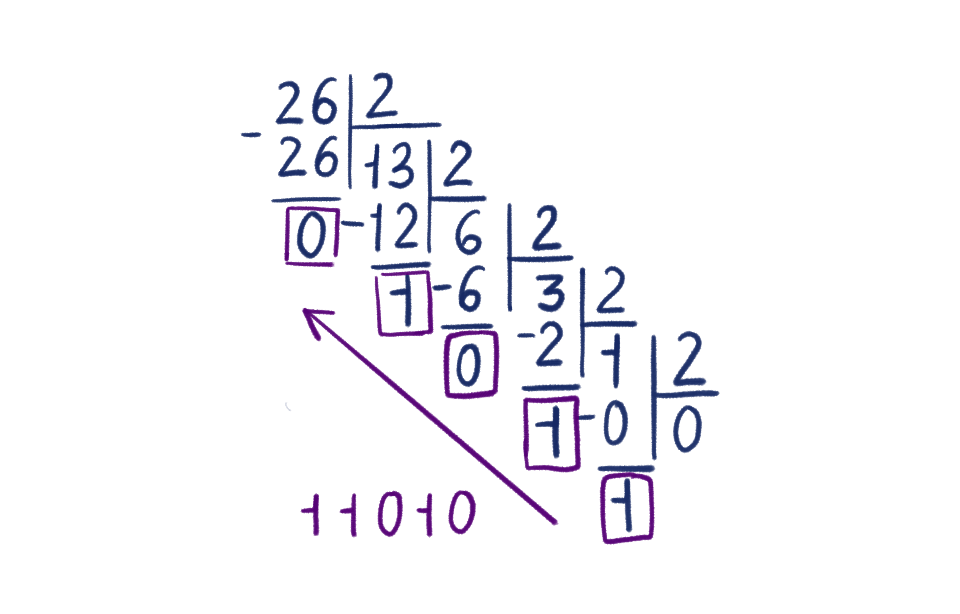
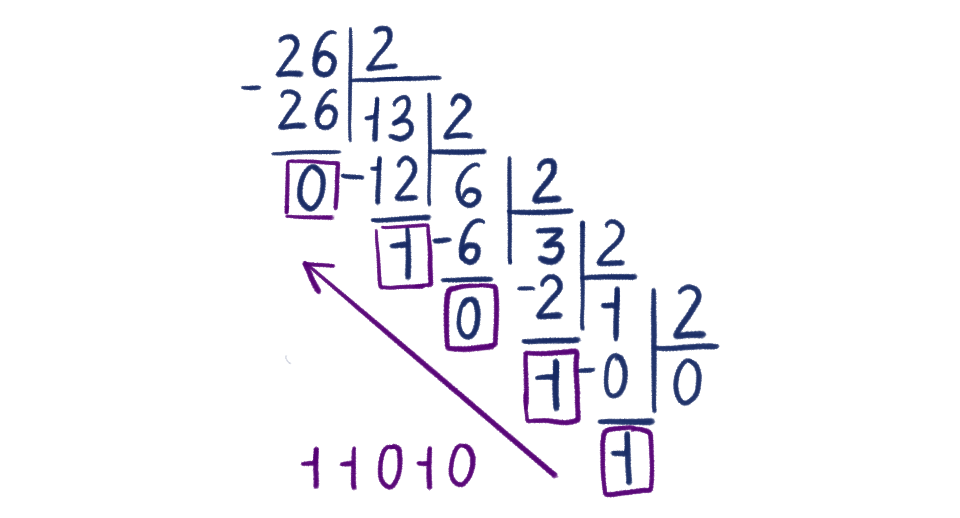
deploy: cb709e85daf9fedc1bf543b376b043204c3958e3

Changed region(s): [[0.25, 0.0309, 0.75, 0.9575], [0.5625, 0.8958, 0.5938, 0.9266]]

diff --git a/amp/numeral-systems.html b/amp/numeral-systems.html
@@ -202,31 +202,31 @@
 
 <p>Чтобы разобраться с тем, как устроена десятичная система, нам потребуется какое-нибудь достаточно большое число.</p>
 
-<p><amp-img src="/assets/images/numeral-systems/example01.png" alt="1072" width="960" height="244" layout="responsive"><noscript><img src="/assets/images/numeral-systems/example01.png" alt="1072" width="960" height="244"></noscript></amp-img></p>
+<p><amp-img src="/assets/images/numeral-systems/example01.png" alt="1072" width="960" height="150" layout="responsive"><noscript><img src="/assets/images/numeral-systems/example01.png" alt="1072" width="960" height="150"></noscript></amp-img></p>
 
 <p>Это четырехзначное число, потому что оно состоит из четырёх цифр. И, поскольку речь идёт о десятичной системе, мы можем использовать десять различных цифр.</p>
 
-<p><amp-img src="/assets/images/numeral-systems/example02.png" alt="0123456789" width="960" height="244" layout="responsive"><noscript><img src="/assets/images/numeral-systems/example02.png" alt="0123456789" width="960" height="244"></noscript></amp-img></p>
+<p><amp-img src="/assets/images/numeral-systems/example02.png" alt="0123456789" width="960" height="150" layout="responsive"><noscript><img src="/assets/images/numeral-systems/example02.png" alt="0123456789" width="960" height="150"></noscript></amp-img></p>
 
 <p>Величина, которая скрывается за каждой цифрой, зависит от её позиции, поэтому такую систему счисления называют также и <em>позиционной</em>. Справа мы записываем самые младшие значения — <em>единицы</em>, слева от них <em>десятки</em>, затем <em>сотни</em>, и так далее. Запись 1702 означает буквально следующее.</p>
 
-<p><amp-img src="/assets/images/numeral-systems/example03.png" alt="1×1000+7×100+0×10+2×1" width="960" height="355" layout="responsive"><noscript><img src="/assets/images/numeral-systems/example03.png" alt="1×1000+7×100+0×10+2×1" width="960" height="355"></noscript></amp-img></p>
+<p><amp-img src="/assets/images/numeral-systems/example03.png" alt="1×1000+7×100+0×10+2×1" width="960" height="248" layout="responsive"><noscript><img src="/assets/images/numeral-systems/example03.png" alt="1×1000+7×100+0×10+2×1" width="960" height="248"></noscript></amp-img></p>
 
 <p>Цифры, записанные в соседних позициях, различаются в десять раз — это и есть десятичная система.
 Однако, как мы говорили ранее, привычная нам десятичная система — далеко не единственная. В то же время, опираясь на неё, нам будет проще понять принципы работы других систем счисления. Например, для записи того же самого числа 1702 в двоичной системе, надо придерживаться тех же правил. Только вместо десяти цифр нам потребуется всего две — 0 и 1. Цифры, записанные в соседних позициях, будут различаться не в десять раз, а в два.</p>
 
-<p><amp-img src="/assets/images/numeral-systems/example04.png" alt="1×1024+1×512+0×256+ +1×128+0×64+1×32+0×16+ +0×8+1×4+1×2+0×1" width="960" height="355" layout="responsive"><noscript><img src="/assets/images/numeral-systems/example04.png" alt="1×1024+1×512+0×256+ +1×128+0×64+1×32+0×16+ +0×8+1×4+1×2+0×1" width="960" height="355"></noscript></amp-img></p>
+<p><amp-img src="/assets/images/numeral-systems/example04.png" alt="1×1024+1×512+0×256+ +1×128+0×64+1×32+0×16+ +0×8+1×4+1×2+0×1" width="960" height="248" layout="responsive"><noscript><img src="/assets/images/numeral-systems/example04.png" alt="1×1024+1×512+0×256+ +1×128+0×64+1×32+0×16+ +0×8+1×4+1×2+0×1" width="960" height="248"></noscript></amp-img></p>
 
 <p>Это очень большое двоичное число. Давайте запишем его в привычной форме:
-<amp-img src="/assets/images/numeral-systems/example05.png" alt="1 1 0 1 0 1 0 0 1 1 0 1024 512 256 128 64 32 16 8 4 2 1" width="960" height="355" layout="responsive"><noscript><img src="/assets/images/numeral-systems/example05.png" alt="1 1 0 1 0 1 0 0 1 1 0 1024 512 256 128 64 32 16 8 4 2 1" width="960" height="355"></noscript></amp-img></p>
+<amp-img src="/assets/images/numeral-systems/example05.png" alt="1 1 0 1 0 1 0 0 1 1 0 1024 512 256 128 64 32 16 8 4 2 1" width="960" height="170" layout="responsive"><noscript><img src="/assets/images/numeral-systems/example05.png" alt="1 1 0 1 0 1 0 0 1 1 0 1024 512 256 128 64 32 16 8 4 2 1" width="960" height="170"></noscript></amp-img></p>
 
 <p>Это число могло бы быть очень большим десятичным числом, потому что состоит из тех же цифр. Чтобы отличать двоичные числа от десятичных, в качестве индекса у них указывают основание системы счисления, то есть 2.</p>
 
-<p><amp-img src="/assets/images/numeral-systems/example06.png" alt="11010100110₂" width="960" height="355" layout="responsive"><noscript><img src="/assets/images/numeral-systems/example06.png" alt="11010100110₂" width="960" height="355"></noscript></amp-img></p>
+<p><amp-img src="/assets/images/numeral-systems/example06.png" alt="11010100110₂" width="960" height="126" layout="responsive"><noscript><img src="/assets/images/numeral-systems/example06.png" alt="11010100110₂" width="960" height="126"></noscript></amp-img></p>
 
 <p>Это особенно важно, когда в одном тексте у нас встречаются одновременно десятичные и двоичные числа.</p>
 
-<p><amp-img src="/assets/images/numeral-systems/example07.png" alt="11010100110₂ = 1702" width="960" height="355" layout="responsive"><noscript><img src="/assets/images/numeral-systems/example07.png" alt="11010100110₂ = 1702" width="960" height="355"></noscript></amp-img></p>
+<p><amp-img src="/assets/images/numeral-systems/example07.png" alt="11010100110₂ = 1702" width="960" height="130" layout="responsive"><noscript><img src="/assets/images/numeral-systems/example07.png" alt="11010100110₂ = 1702" width="960" height="130"></noscript></amp-img></p>
 
 <h2 id="зачем-нужна-двоичная-система">Зачем нужна двоичная система</h2>
 
@@ -252,27 +252,27 @@
 
 <p>Сейчас мы узнаем способ быстро переводить двоичные числа в десятичные. Нам потребуется какое-то двоичное число для примера. Пусть оно будет достаточно большим, чтобы мы не могли вычислить его на пальцах.</p>
 
-<p><amp-img src="/assets/images/numeral-systems/example08.png" alt="11010" width="960" height="355" layout="responsive"><noscript><img src="/assets/images/numeral-systems/example08.png" alt="11010" width="960" height="355"></noscript></amp-img></p>
+<p><amp-img src="/assets/images/numeral-systems/example08.png" alt="11010" width="960" height="130" layout="responsive"><noscript><img src="/assets/images/numeral-systems/example08.png" alt="11010" width="960" height="130"></noscript></amp-img></p>
 
 <p>Запишем его в математической записи, помня, что вместо основания 10, мы используем основание 2.</p>
 
-<p><amp-img src="/assets/images/numeral-systems/example09.png" alt="1×16+1×8+0×4+1×2+0×1" width="960" height="355" layout="responsive"><noscript><img src="/assets/images/numeral-systems/example09.png" alt="1×16+1×8+0×4+1×2+0×1" width="960" height="355"></noscript></amp-img></p>
+<p><amp-img src="/assets/images/numeral-systems/example09.png" alt="1×16+1×8+0×4+1×2+0×1" width="960" height="130" layout="responsive"><noscript><img src="/assets/images/numeral-systems/example09.png" alt="1×16+1×8+0×4+1×2+0×1" width="960" height="130"></noscript></amp-img></p>
 
 <p>Мы видим, что у всех слагаемых только два множителя — 0 и 1. Слагаемые с множителем 0 равны нулю, поэтому мы можем их отбросить, оставив только слагаемые с множителем 1.</p>
 
-<p><amp-img src="/assets/images/numeral-systems/example10.png" alt="1×16+1×8+1×2" width="960" height="355" layout="responsive"><noscript><img src="/assets/images/numeral-systems/example10.png" alt="1×16+1×8+1×2" width="960" height="355"></noscript></amp-img></p>
+<p><amp-img src="/assets/images/numeral-systems/example10.png" alt="1×16+1×8+1×2" width="960" height="130" layout="responsive"><noscript><img src="/assets/images/numeral-systems/example10.png" alt="1×16+1×8+1×2" width="960" height="130"></noscript></amp-img></p>
 
 <p>У слагаемых с множителем 1 этот множитель можно не записывать.</p>
 
-<p><amp-img src="/assets/images/numeral-systems/example11.png" alt="16+8+2" width="960" height="355" layout="responsive"><noscript><img src="/assets/images/numeral-systems/example11.png" alt="16+8+2" width="960" height="355"></noscript></amp-img></p>
+<p><amp-img src="/assets/images/numeral-systems/example11.png" alt="16+8+2" width="960" height="130" layout="responsive"><noscript><img src="/assets/images/numeral-systems/example11.png" alt="16+8+2" width="960" height="130"></noscript></amp-img></p>
 
 <p>Теперь нетрудно посчитать сумму.</p>
 
-<p><amp-img src="/assets/images/numeral-systems/example12.png" alt="26" width="960" height="355" layout="responsive"><noscript><img src="/assets/images/numeral-systems/example12.png" alt="26" width="960" height="355"></noscript></amp-img></p>
+<p><amp-img src="/assets/images/numeral-systems/example12.png" alt="26" width="960" height="130" layout="responsive"><noscript><img src="/assets/images/numeral-systems/example12.png" alt="26" width="960" height="130"></noscript></amp-img></p>
 
 <p>Вывод: число 11010 в двоичной записи — то же самое, что 26 в десятичной.</p>
 
-<p><amp-img src="/assets/images/numeral-systems/example13.png" alt="11010₂=26" width="960" height="355" layout="responsive"><noscript><img src="/assets/images/numeral-systems/example13.png" alt="11010₂=26" width="960" height="355"></noscript></amp-img></p>
+<p><amp-img src="/assets/images/numeral-systems/example13.png" alt="11010₂=26" width="960" height="130" layout="responsive"><noscript><img src="/assets/images/numeral-systems/example13.png" alt="11010₂=26" width="960" height="130"></noscript></amp-img></p>
 
 <p>Ещё раз повторим, как перевести двоичное число в десятичное.</p>
 
@@ -396,7 +396,7 @@
 
 <p>Пользуясь такой таблицей, можно переводить числа из двоичной системы в десятичную практически «в уме».</p>
 
-<p><amp-img src="/assets/images/numeral-systems/example14.png" alt="11010₂=10000₂+1000₂+10₂=16+8+2=26" width="960" height="614" layout="responsive"><noscript><img src="/assets/images/numeral-systems/example14.png" alt="11010₂=10000₂+1000₂+10₂=16+8+2=26" width="960" height="614"></noscript></amp-img></p>
+<p><amp-img src="/assets/images/numeral-systems/example14.png" alt="11010₂=10000₂+1000₂+10₂=16+8+2=26" width="960" height="482" layout="responsive"><noscript><img src="/assets/images/numeral-systems/example14.png" alt="11010₂=10000₂+1000₂+10₂=16+8+2=26" width="960" height="482"></noscript></amp-img></p>
 
 <h2 id="как-переводить-десятичные-числа-в-двоичные">Как переводить десятичные числа в двоичные</h2>
 
@@ -472,7 +472,7 @@
 
 <p>Попробуем перевести десятичное число 26 в двоичную систему. Для этого используем деление уголком на число 2.</p>
 
-<p><amp-img src="/assets/images/numeral-systems/example24.png" alt="Перевод десятичного числа в двоичное" width="960" height="614" layout="responsive"><noscript><img src="/assets/images/numeral-systems/example24.png" alt="Перевод десятичного числа в двоичное" width="960" height="614"></noscript></amp-img></p>
+<p><amp-img src="/assets/images/numeral-systems/example24.png" alt="Перевод десятичного числа в двоичное" width="960" height="518" layout="responsive"><noscript><img src="/assets/images/numeral-systems/example24.png" alt="Перевод десятичного числа в двоичное" width="960" height="518"></noscript></amp-img></p>
 
 <p>Если 26 разделить на 2, то в результате получится 13, остаток от деления 0. Продолжаем дальше:</p>
 <ul>
@@ -484,14 +484,14 @@
 
 <p>Из остатков 1, 1, 0, 1 и 0 складывается нужная нам двоичная запись.</p>
 
-<p><amp-img src="/assets/images/numeral-systems/example08.png" alt="11010" width="960" height="355" layout="responsive"><noscript><img src="/assets/images/numeral-systems/example08.png" alt="11010" width="960" height="355"></noscript></amp-img></p>
+<p><amp-img src="/assets/images/numeral-systems/example08.png" alt="11010" width="960" height="130" layout="responsive"><noscript><img src="/assets/images/numeral-systems/example08.png" alt="11010" width="960" height="130"></noscript></amp-img></p>
 
 <h2 id="шестнадцатеричная-система-счисления">Шестнадцатеричная система счисления</h2>
 
 <p>Мы знаем, что компьютер использует числа для представления любой информации. Например, компьютер хранит цвета в виде трёх чисел — яркости красной, зелёной и синей компонентов цвета.
 На каждый компонент отводится восемь двоичных позиций, поэтому максимальная яркость компонента равна 11111111₂ или 255. Цвет целиком описывается большим 24-х разрядным двоичным числом, например, 11111010 10000000 01110010. Это цвет Salmon из таблицы цветов HTML, он же <em>лососевый</em> цвет.</p>
 
-<p><amp-img src="/assets/images/numeral-systems/salmon-color.png" alt="Лососевый цвет" width="960" height="307" layout="responsive"><noscript><img src="/assets/images/numeral-systems/salmon-color.png" alt="Лососевый цвет" width="960" height="307"></noscript></amp-img></p>
+<p><amp-img src="/assets/images/numeral-systems/salmon-color.png" alt="Лососевый цвет" width="960" height="248" layout="responsive"><noscript><img src="/assets/images/numeral-systems/salmon-color.png" alt="Лососевый цвет" width="960" height="248"></noscript></amp-img></p>
 
 <p>Старшие восемь позиций отводятся для хранения красного компонента, средние восемь — зелёного, и младшие восемь — синего. Мы видим, что такая запись очень громоздка и неудобна.</p>
 
@@ -600,11 +600,11 @@
 
 <p>Шестнадцатеричная система счисления хороша тем, что группа из четырёх двоичных цифр кодируется одной шестнадцатеричной цифрой. Таким образом, лососевый цвет</p>
 
-<p><amp-img src="/assets/images/numeral-systems/example25.png" alt="1111 1010 1000 0000 0111 0010" width="960" height="307" layout="responsive"><noscript><img src="/assets/images/numeral-systems/example25.png" alt="1111 1010 1000 0000 0111 0010" width="960" height="307"></noscript></amp-img></p>
+<p><amp-img src="/assets/images/numeral-systems/example25.png" alt="1111 1010 1000 0000 0111 0010" width="960" height="119" layout="responsive"><noscript><img src="/assets/images/numeral-systems/example25.png" alt="1111 1010 1000 0000 0111 0010" width="960" height="119"></noscript></amp-img></p>
 
 <p>В шестнадцатеричной системе счисления записывается так:</p>
 
-<p><amp-img src="/assets/images/numeral-systems/example26.png" alt="FA 80 72" width="960" height="307" layout="responsive"><noscript><img src="/assets/images/numeral-systems/example26.png" alt="FA 80 72" width="960" height="307"></noscript></amp-img></p>
+<p><amp-img src="/assets/images/numeral-systems/example26.png" alt="FA 80 72" width="960" height="119" layout="responsive"><noscript><img src="/assets/images/numeral-systems/example26.png" alt="FA 80 72" width="960" height="119"></noscript></amp-img></p>
 
 <p>Конечно, вначале трудно понять, каков порядок у шестнадцатеричного числа FA. Много это или мало, и насколько отличается от шестнадцатеричных чисел 80 и 72? Как и в случае с двоичными числами, программисты обычно помнят порядки круглых шестнадцатеричных чисел. Но можно не запоминать, а подглядывать в эту таблицу.</p>
 
